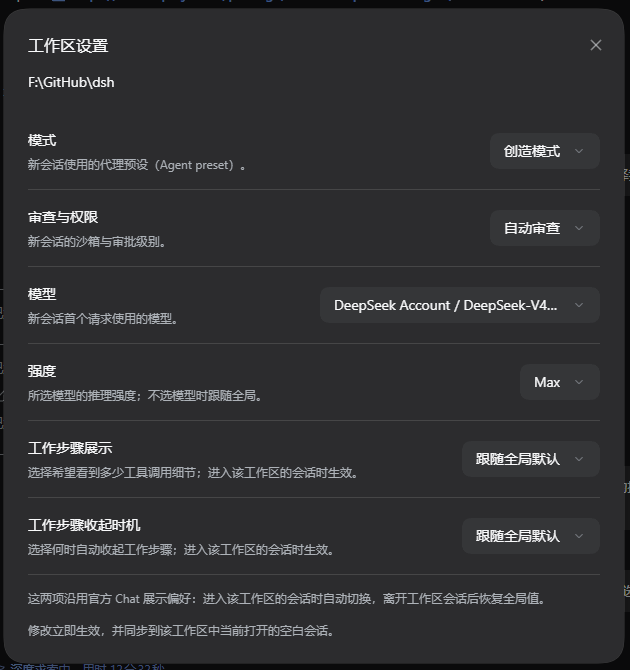
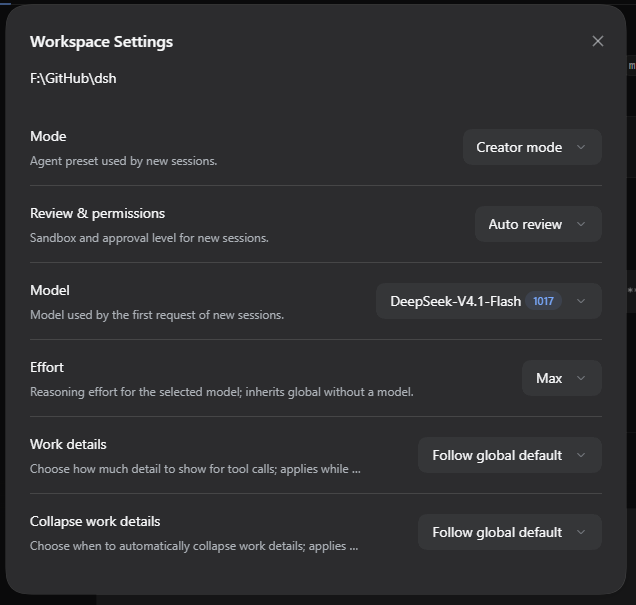
docs: refresh the English and Chinese screenshots and market preview
Replace the English screenshot with the new native workspace-settings dialog
and add the matching Chinese capture; list both in screenshots.json with the
Chinese one as the market preview.

diff --git a/README.zh-CN.md b/README.zh-CN.md
@@ -17,10 +17,10 @@
 
 ## 截图
 
-![工作区设置对话框](https://raw.githubusercontent.com/Thunderunruly/workspace-settings/main/docs/screenshots/workspace-settings-dialog.png)
+![工作区设置对话框](https://raw.githubusercontent.com/Thunderunruly/workspace-settings/main/docs/screenshots/workspace-settings-dialog.zh-CN.png)
 
-*从工作区行 `...` 菜单打开的工作区设置：模式、权限预设、模型与推理强度在同一个原生对话框里
-编辑，工作步骤展示与收起时机也在这里设置。*
+*中文界面下从工作区行 `...` 菜单打开的工作区设置：模式、权限预设、模型与推理强度在同一个原生
+对话框里编辑，工作步骤展示与收起时机也在这里设置。*
 
 ## 目录
 

diff --git a/README.md b/README.md
@@ -22,8 +22,9 @@ General Settings page. Changes apply immediately; there is no Save/Cancel step.
 
 ![Workspace settings dialog](https://raw.githubusercontent.com/Thunderunruly/workspace-settings/main/docs/screenshots/workspace-settings-dialog.png)
 
-*Workspace settings opened from a workspace row's `...` menu: mode, permission preset, model
-and effort are edited in one native dialog; work details and collapse timing follow it too.*
+*Workspace settings in the English UI, opened from a workspace row's `...` menu: mode, permission
+preset, model and effort are edited in one native dialog; work details and collapse timing
+follow it too.*
 
 ## Table of contents
 
